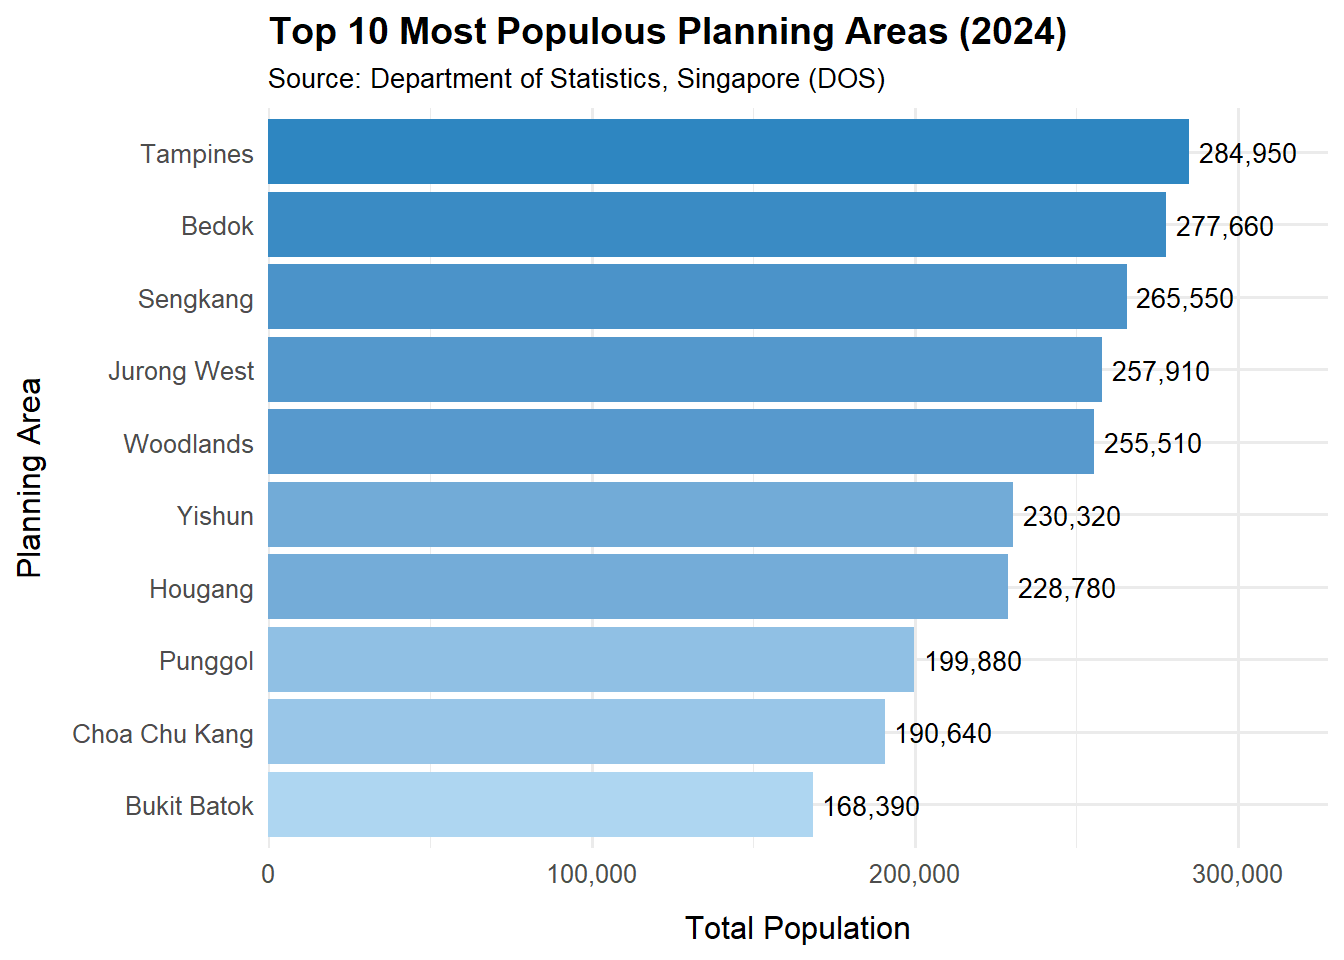
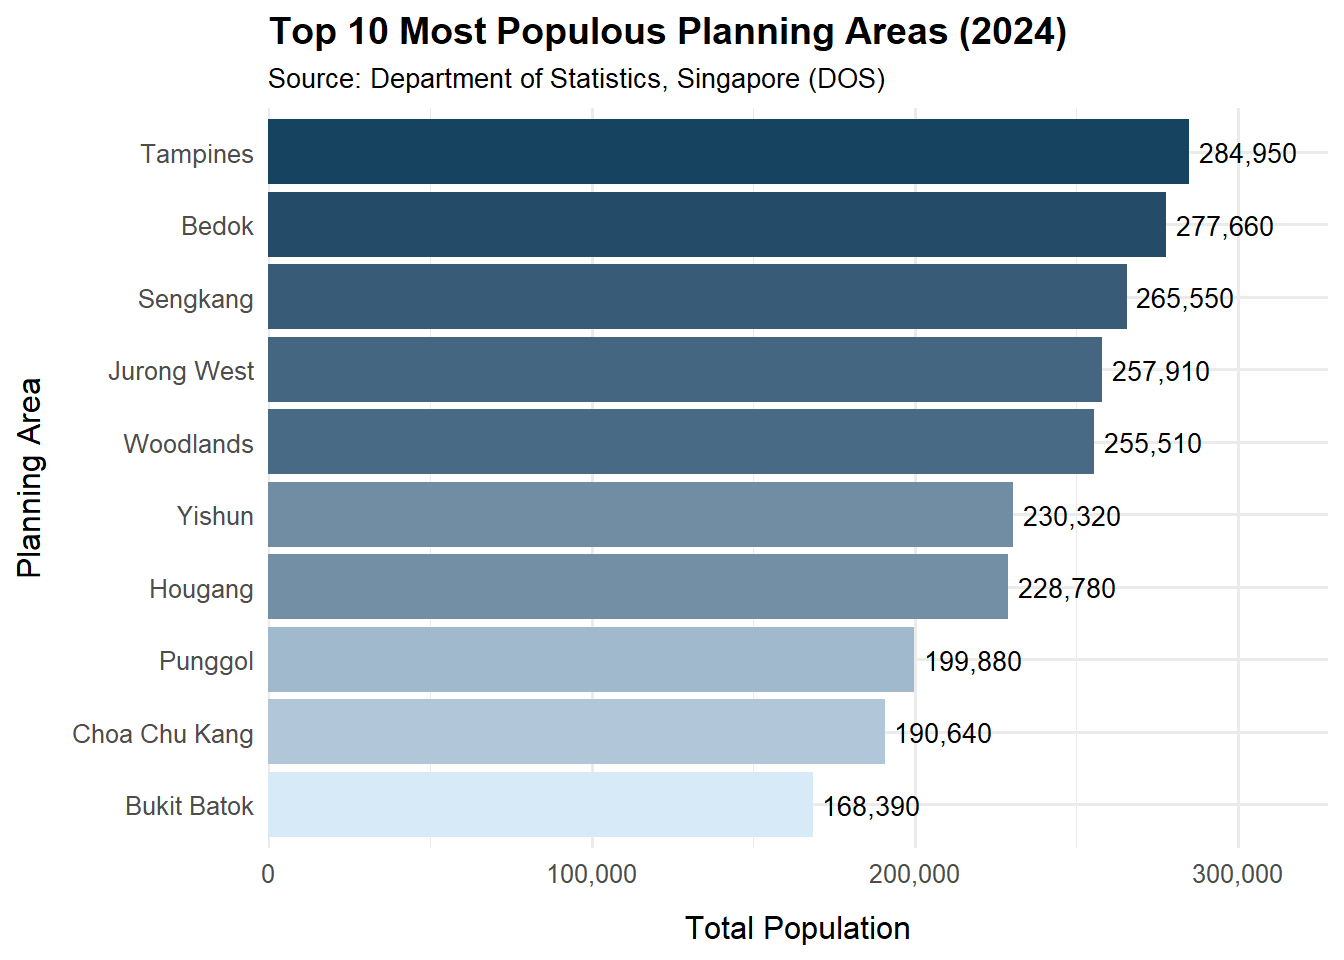
Commit Take Home Exercise 1 Feedback

diff --git a/_site/Take-Home_Ex/Take-Home_Ex01/Take-Home_Ex01Feedback.html b/_site/Take-Home_Ex/Take-Home_Ex01/Take-Home_Ex01Feedback.html
@@ -375,7 +375,7 @@ Areas for Improvement
 <span id="cb6-15"><a href="#cb6-15" aria-hidden="true" tabindex="-1"></a>    <span class="at">x =</span> <span class="st">"Planning Area"</span>, </span>
 <span id="cb6-16"><a href="#cb6-16" aria-hidden="true" tabindex="-1"></a>    <span class="at">y =</span> <span class="st">"Total Population"</span></span>
 <span id="cb6-17"><a href="#cb6-17" aria-hidden="true" tabindex="-1"></a>  ) <span class="sc">+</span></span>
-<span id="cb6-18"><a href="#cb6-18" aria-hidden="true" tabindex="-1"></a>  <span class="fu">scale_fill_gradient</span>(<span class="at">low =</span> <span class="st">"#AED6F1"</span>, <span class="at">high =</span> <span class="st">"#2E86C1"</span>) <span class="sc">+</span></span>
+<span id="cb6-18"><a href="#cb6-18" aria-hidden="true" tabindex="-1"></a>  <span class="fu">scale_fill_gradient</span>(<span class="at">low =</span> <span class="st">"#D6EAF8"</span>, <span class="at">high =</span> <span class="st">"#154360"</span>) <span class="sc">+</span></span>
 <span id="cb6-19"><a href="#cb6-19" aria-hidden="true" tabindex="-1"></a>  <span class="fu">theme_minimal</span>(<span class="at">base_size =</span> <span class="dv">12</span>) <span class="sc">+</span></span>
 <span id="cb6-20"><a href="#cb6-20" aria-hidden="true" tabindex="-1"></a>  <span class="fu">theme</span>(</span>
 <span id="cb6-21"><a href="#cb6-21" aria-hidden="true" tabindex="-1"></a>    <span class="at">plot.title =</span> <span class="fu">element_text</span>(<span class="at">face =</span> <span class="st">"bold"</span>, <span class="at">size =</span> <span class="dv">14</span>),</span>
@@ -393,7 +393,10 @@ Areas for Improvement
 </div>
 <ul>
 <li><p><code>fill = Total_Pop</code> was added inside <code>aes()</code> to create a color gradient that represents population.</p></li>
-<li><p><code>geom_text(aes(label = comma(Total_Pop)), hjust = -0.1, size = 3.5)</code> was added to display population values on each bar.</p></li>
+<li><p><code>geom_text(aes(label = comma(Total_Pop)), ...)</code> was added to display population values on each bar.</p></li>
+<li><p><code>scale_y_continuous(labels = comma, expand = expansion(mult = c(0, 0.15)))</code> was added to format the y-axis with commas instead of scientific notation and also expand the axis range so that the text labels per bar could fit into the chart.</p></li>
+<li><p><code>scale_fill_gradient(low = "#D6EAF8", high = "#154360")</code> was added to apply gradient color scheme to the bars.</p></li>
+<li><p>The <code>labs(..., subtitle = "Source: Department of Statistics, Singapore (DOS), ...)"</code> was also added to provide data source information so that the reader could understand the credibillity of the chart.</p></li>
 </ul>
 </section>
 </section>

diff --git a/_site/index.html b/_site/index.html
@@ -258,7 +258,7 @@ window.Quarto = {
 
 <div class="quarto-listing quarto-listing-container-grid" id="listing-listing">
 <div class="list grid quarto-listing-cols-3">
-<div class="g-col-1" data-index="0" data-listing-date-sort="1746633600000" data-listing-file-modified-sort="1746971872679" data-listing-date-modified-sort="1746971872000" data-listing-reading-time-sort="5" data-listing-word-count-sort="895">
+<div class="g-col-1" data-index="0" data-listing-date-sort="1746633600000" data-listing-file-modified-sort="1746972591956" data-listing-date-modified-sort="1746972591000" data-listing-reading-time-sort="5" data-listing-word-count-sort="928">
 <a href="./Take-Home_Ex/Take-Home_Ex01/Take-Home_Ex01Feedback.html" class="quarto-grid-link">
 <div class="quarto-grid-item card h-100 card-left">
 <div class="card-body post-contents">
